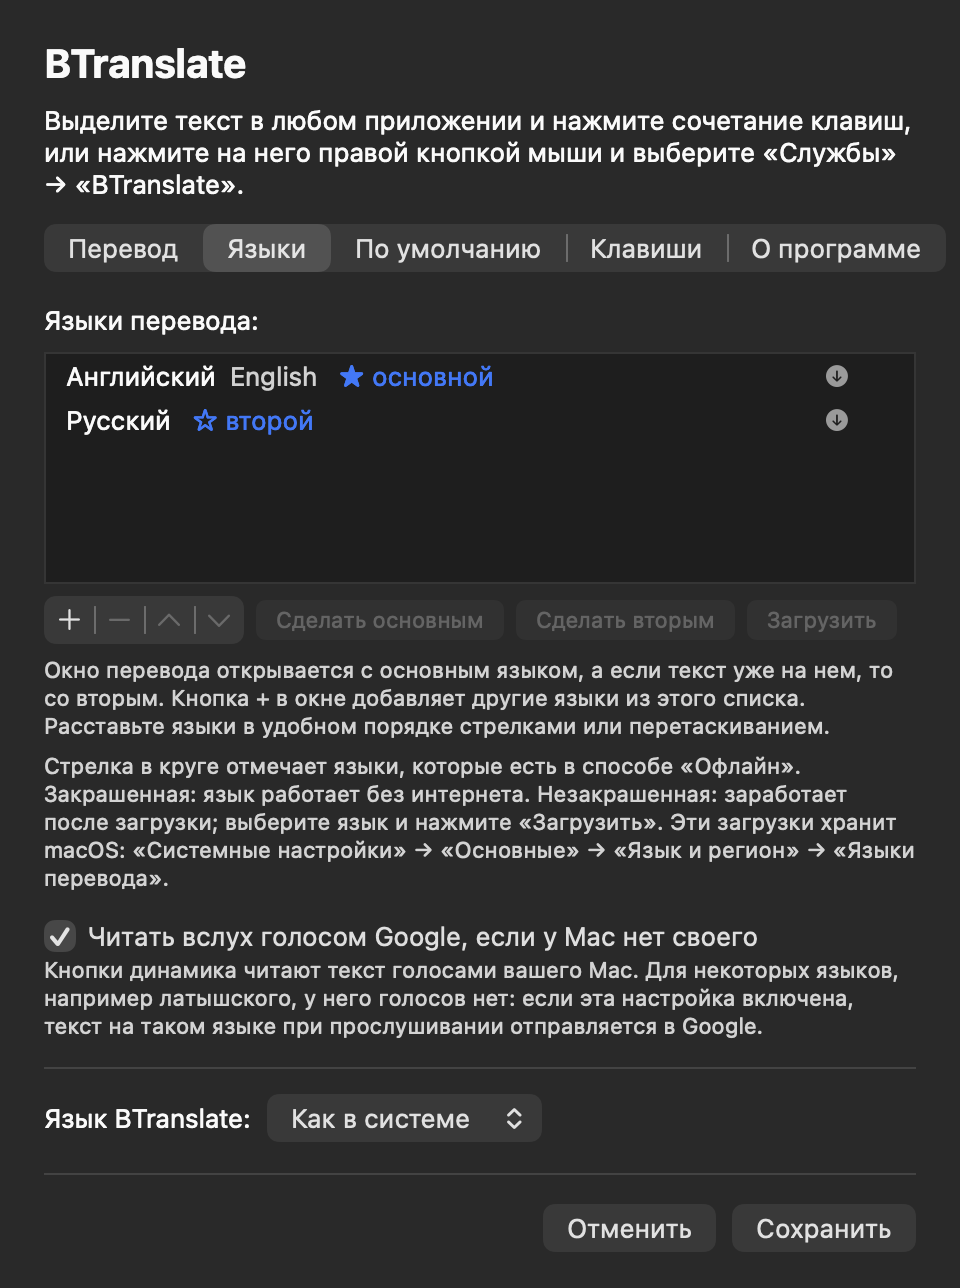
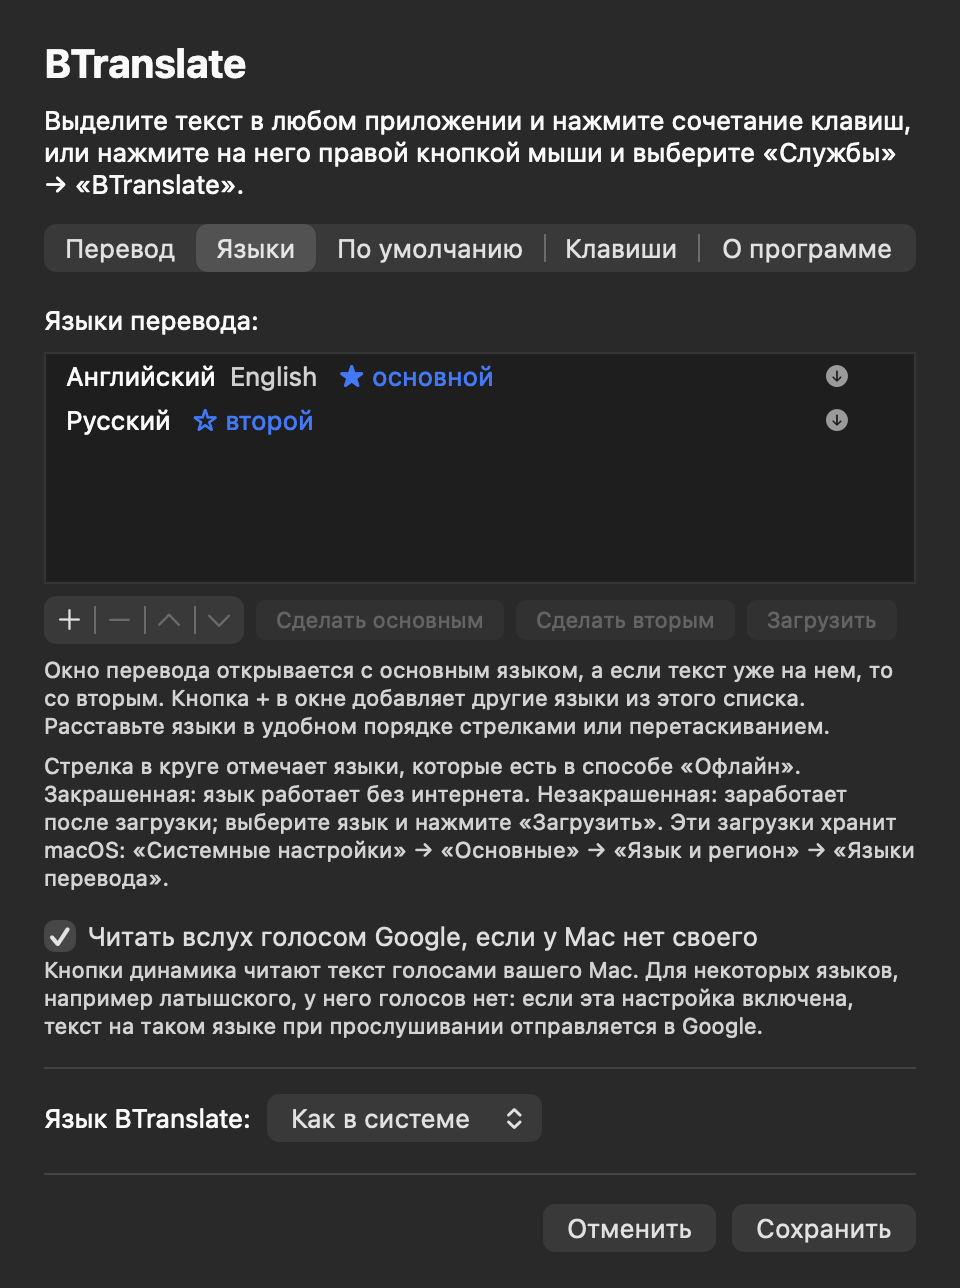
fix(settings): the five page tabs end at the page's right margin in Russian
Where the row is wider than the page, each segment gets its label's width plus an even share of the room left. cutOffTexts holds that a segment given a width still has room for its label.

Changed region(s): [[0.0625, 0.1553, 0.9688, 0.2174]]

diff --git a/Sources/SettingsWindow.swift b/Sources/SettingsWindow.swift
@@ -32,6 +32,13 @@ private final class MethodChoice: NSObject {
     @objc private func changed() { chosen = shown }
 }
 
+extension NSSegmentedControl {
+    /// The width of a segment's label in the control's font.
+    func labelWidth(ofSegment segment: Int) -> CGFloat {
+        ceil(((label(forSegment: segment) ?? "") as NSString).size(withAttributes: [.font: font ?? NSFont.systemFont(ofSize: NSFont.systemFontSize)]).width)
+    }
+}
+
 /// The settings window. It opens when you start BTranslate yourself (the installer does,
 /// once) and from the gear button of a popup, of the typing panel and of a translated window.
 @MainActor
@@ -466,7 +473,7 @@ final class SettingsController: NSObject, NSWindowDelegate, NSTextFieldDelegate 
         let adHoc = caption(L("BTranslate is signed ad hoc on this Mac: after each update macOS wants the shortcut's permissions given again. tools/local-signing.sh, in BTranslate's source, gives this Mac a certificate that keeps them."))
         adHoc.isHidden = !Updater.isSignedAdHoc
         adHocNote = adHoc
-        let updateNote = caption(L("The check is one small request to GitHub a day, with nothing of yours in it. An update is the install again: the source is downloaded and built on this Mac, which takes about a minute and needs the Command Line Tools. Your settings stay. To do it by hand, run this in Terminal:"))
+        let updateNote = caption(L("A check is one small request to GitHub with nothing of yours in it: once a day, and when this page opens if the last was over an hour ago. An update is the install again: the source is downloaded and built on this Mac, which takes about a minute and needs the Command Line Tools. Your settings stay. To do it by hand, run this in Terminal:"))
         let installLine = NSTextField(wrappingLabelWithString: Updater.installLine)
         installLine.font = .monospacedSystemFont(ofSize: 11, weight: .regular)
         installLine.lineBreakMode = .byCharWrapping
@@ -513,6 +520,7 @@ final class SettingsController: NSObject, NSWindowDelegate, NSTextFieldDelegate 
             stack.trailingAnchor.constraint(equalTo: content.trailingAnchor),
             content.widthAnchor.constraint(equalToConstant: width),
         ])
+        fitPageTabs(to: inner)
         for view in [intro, googleNote, aiNote, deviceNote, packNote, voiceNote, defaultsNote, grid, line2, line3, buttons, translation, languages, defaults,
                      shortcut, shortcutNote, shortcutStatus, accessNote, screenNote, loginNote, line4, line5,
                      about, what, licence, stateRow, adHoc, updateNote, installLine, line6, line7] as [NSView] {
@@ -570,6 +578,28 @@ final class SettingsController: NSObject, NSWindowDelegate, NSTextFieldDelegate 
         checkBox.state = config.checkForUpdates ? .on : .off
         autoBox.state = config.autoUpdate ? .on : .off
         refreshUpdate()
+    }
+
+    /// Five tabs are wider than the page in some languages (Russian): then each segment gets its
+    /// label's width plus an even share of the room left, so that the row ends at the page's
+    /// right margin. Where the row fits, it keeps its natural widths.
+    private func fitPageTabs(to inner: CGFloat) {
+        guard pageControl.intrinsicContentSize.width > inner else { return }
+        let labels = (0..<pageControl.segmentCount).map { pageControl.labelWidth(ofSegment: $0) }
+        for (segment, width) in labels.enumerated() { pageControl.setWidth(width, forSegment: segment) }
+        let frame = pageControl.intrinsicContentSize.width - labels.reduce(0, +)  // borders, dividers, padding
+        let share = (inner - frame - labels.reduce(0, +)) / CGFloat(labels.count)
+        for (segment, width) in labels.enumerated() { pageControl.setWidth(floor(width + share), forSegment: segment) }
+        let last = labels.count - 1, rest = inner - pageControl.intrinsicContentSize.width  // what rounding down left over
+        pageControl.setWidth(pageControl.width(forSegment: last) + rest, forSegment: last)
+    }
+
+    /// How wide the row of page tabs is, and whether its widths were set (UI test).
+    var pageTabsForTest: String {
+        let width = pageControl.intrinsicContentSize.width, inner: CGFloat = 436
+        let set = (0..<pageControl.segmentCount).contains { pageControl.width(forSegment: $0) > 0 }
+        return "page tabs: \(Int(width.rounded())) points wide, the page \(Int(inner)): \(width <= inner + 0.5 ? "they fit" : "TOO WIDE")"
+            + "; widths set: \(set ? "yes" : "no")"
     }
 
     // MARK: About, and updates

diff --git a/Sources/main.swift b/Sources/main.swift
@@ -320,6 +320,13 @@ func snapshot(_ view: NSView, to path: String) {
 func cutOffTexts(in view: NSView) -> [String] {
     if view.isHidden || view is NSTableView { return [] }
     var found: [String] = []
+    if let tabs = view as? NSSegmentedControl {
+        // Segments given a width of their own must still hold their labels, with a few points to spare.
+        for segment in 0..<tabs.segmentCount where tabs.width(forSegment: segment) > 0
+            && tabs.width(forSegment: segment) < tabs.labelWidth(ofSegment: segment) + 4 {
+            found.append(tabs.label(forSegment: segment) ?? "segment \(segment)")
+        }
+    }
     if let label = view as? NSTextField {
         if label.isEditable, let hint = label.placeholderString, let font = label.font {  // a field's grey hint
             if (hint as NSString).size(withAttributes: [.font: font]).width > label.frame.width - 10 { found.append(hint) }
@@ -341,6 +348,7 @@ func cutOffTexts(in view: NSView) -> [String] {
 func reportPageHeights() {
     let heights = SettingsController.shared.pageHeights.map { Int($0) }
     let fit = (heights.max() ?? 0) <= 760
+    print(SettingsController.shared.pageTabsForTest)
     print("settings pages are \(heights.map(String.init).joined(separator: ", ")) points tall: \(fit ? "they fit a small screen" : "TOO TALL for a small screen")")
 }
 
